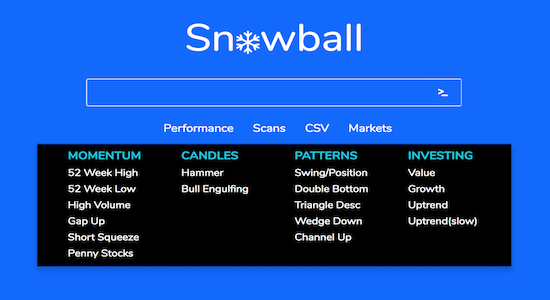
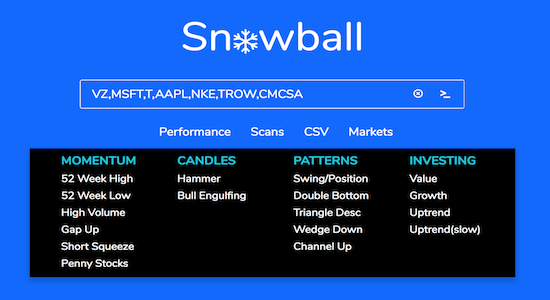
Replace snowball-scan image and edit description

Changed region(s): [[0.0309, 0.24, 0.9582, 0.96], [0.3091, 0.06, 0.68, 0.18]]

diff --git a/projects.html b/projects.html
@@ -16,11 +16,11 @@ permalink: /projects/
   <section id="snowball" class="project">
     <h1 class="prj-title">Snowball</h1>
     <div id="trade-slide" class="slideshow center">
-      <img src="/img/projects/tradelytics/snowball-main.png"  alt="snowball main" class="prj-img">
-      <img src="/img/projects/tradelytics/snowball-scans.png" alt="snowball scans" class="hide-img">
-      <img src="/img/projects/tradelytics/snowball-chart.png" alt="snowball charts" class="hide-img">
+      <img src="/img/projects/snowball/snowball-main.png"  alt="snowball main" class="prj-img">
+      <img src="/img/projects/snowball/snowball-scans.png" alt="snowball scans" class="hide-img">
+      <img src="/img/projects/snowball/snowball-chart.png" alt="snowball charts" class="hide-img">
     </div>
-    <p class="prj-desc">Snowball is a static web app that is an agregation of stock charts to be able to easily create watchlists. It includes a set of preset scans linked to finviz and simple clean search bar approach. Simply click chart to add to watchlist text file. Uses only HTML, CSS and Javascript</p>
+    <p class="prj-desc">Snowball is a static web app that is an agregation of stock charts to be able to easily analyze and create watchlists. It includes a set of preset scans, designed by me, that link to finviz. The design is simple clean search bar approach like Google. Simply click chart to add to watchlist text file. Uses only HTML, CSS and Javascript</p>
     <div class="prj-tech">
       <h4>Notable Technology Used</h4>
       <ul>

diff --git a/_site/projects/index.html b/_site/projects/index.html
@@ -103,11 +103,11 @@
   <section id="snowball" class="project">
     <h1 class="prj-title">Snowball</h1>
     <div id="trade-slide" class="slideshow center">
-      <img src="/img/projects/tradelytics/snowball-main.png"  alt="snowball main" class="prj-img">
-      <img src="/img/projects/tradelytics/snowball-scans.png" alt="snowball scans" class="hide-img">
-      <img src="/img/projects/tradelytics/snowball-chart.png" alt="snowball charts" class="hide-img">
+      <img src="/img/projects/snowball/snowball-main.png"  alt="snowball main" class="prj-img">
+      <img src="/img/projects/snowball/snowball-scans.png" alt="snowball scans" class="hide-img">
+      <img src="/img/projects/snowball/snowball-chart.png" alt="snowball charts" class="hide-img">
     </div>
-    <p class="prj-desc">Snowball is a static web app that is an agregation of stock charts to be able to easily create watchlists. It includes a set of preset scans linked to finviz and simple clean search bar approach. Simply click chart to add to watchlist text file. Uses only HTML, CSS and Javascript</p>
+    <p class="prj-desc">Snowball is a static web app that is an agregation of stock charts to be able to easily analyze and create watchlists. It includes a set of preset scans, designed by me, that link to finviz. The design is simple clean search bar approach like Google. Simply click chart to add to watchlist text file. Uses only HTML, CSS and Javascript</p>
     <div class="prj-tech">
       <h4>Notable Technology Used</h4>
       <ul>

diff --git a/_site/js/project.js b/_site/js/project.js
@@ -1,9 +1,10 @@
 $(function(){
   // call nextImage over and over every 3.5 seconds
-  var slides = ['nextImage("#prism-slide")', 'nextImage("#yeeld-slide")', 'nextImage("#trade-slide")'];
+  var slides = ['nextImage("#prism-slide")', 'nextImage("#yeeld-slide")', 'nextImage("#trade-slide")',
+                'nextImage("#snowball-slide")'];
 
   for (var i = 0; i < slides.length; i++) {
-    setInterval(slides[i], 3500); 
+    setInterval(slides[i], 3500);
   }
 
 });

diff --git a/js/project.js b/js/project.js
@@ -1,9 +1,10 @@
 $(function(){
   // call nextImage over and over every 3.5 seconds
-  var slides = ['nextImage("#prism-slide")', 'nextImage("#yeeld-slide")', 'nextImage("#trade-slide")'];
+  var slides = ['nextImage("#prism-slide")', 'nextImage("#yeeld-slide")', 'nextImage("#trade-slide")',
+                'nextImage("#snowball-slide")'];
 
   for (var i = 0; i < slides.length; i++) {
-    setInterval(slides[i], 3500); 
+    setInterval(slides[i], 3500);
   }
 
 });
